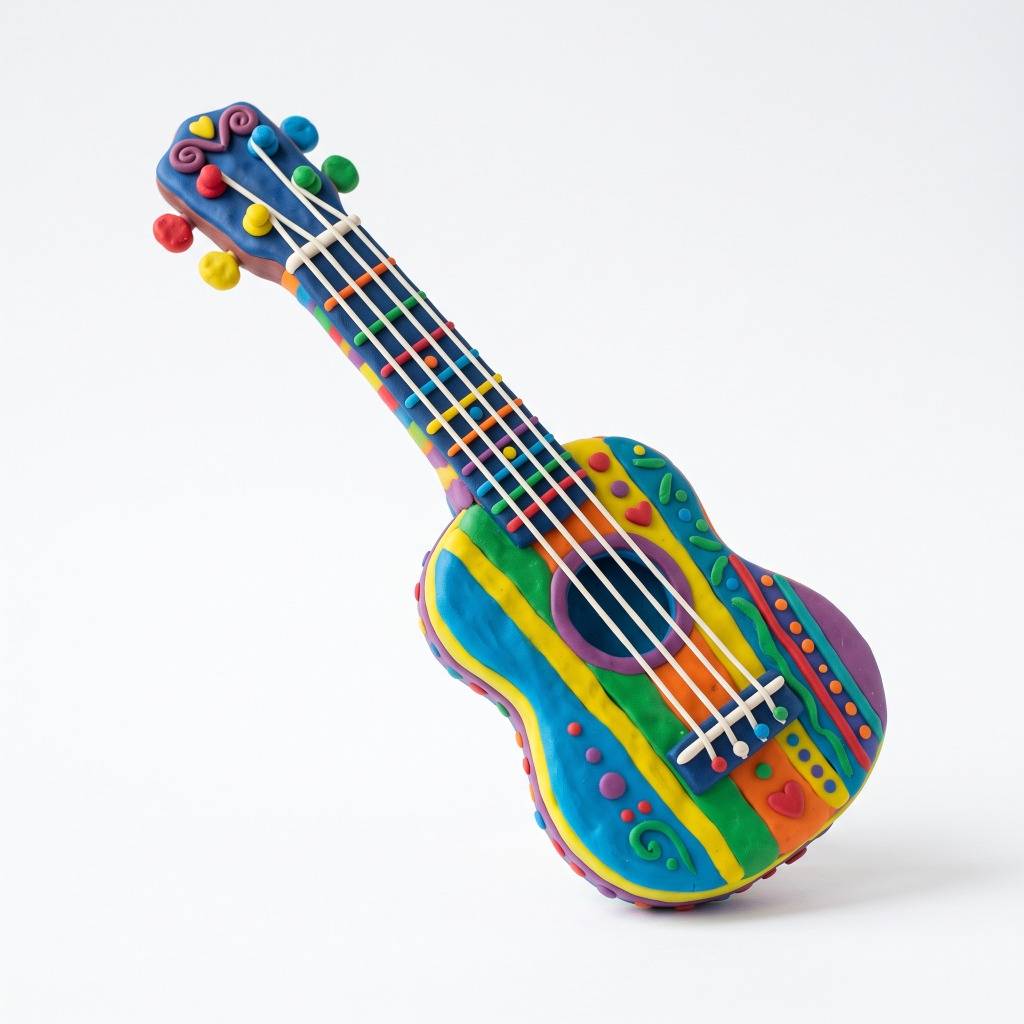
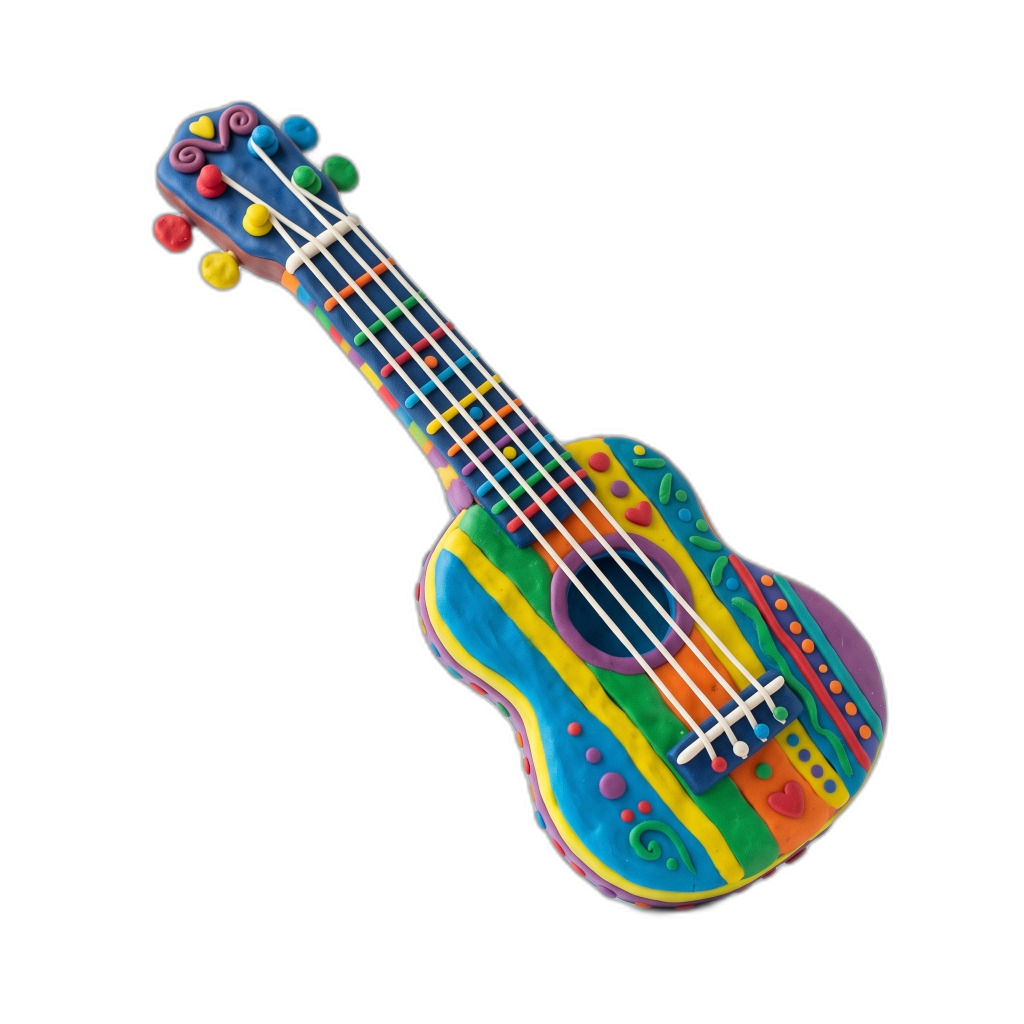
Integrar imagen ukelele con transparencia limpia sin bordes ni sombras

diff --git a/index.html b/index.html
@@ -477,28 +477,51 @@
 
     .hero-visual {
       position: relative;
+      display: flex;
+      justify-content: center;
+      align-items: center;
     }
 
-    .hero-photo-card {
-      padding: 10px;
-      background: #ffffff;
-      border: 1px solid var(--border-subtle);
-      border-radius: var(--radius-xl);
-      box-shadow: var(--shadow-lg);
-      overflow: hidden;
-    }
-
-    .hero-photo-card img {
+    .hero-image-wrap {
+      position: relative;
       width: 100%;
-      height: 380px;
-      object-fit: cover;
-      border-radius: var(--radius-lg);
-      display: block;
-      transition: transform 0.5s ease;
+      display: flex;
+      justify-content: center;
+      align-items: center;
     }
 
-    .hero-photo-card:hover img {
-      transform: scale(1.03);
+    .hero-ukelele-img {
+      position: relative;
+      z-index: 1;
+      width: 100%;
+      max-width: 440px;
+      height: auto;
+      max-height: 480px;
+      object-fit: contain;
+      display: block;
+      margin: 0 auto;
+      border: none;
+      outline: none;
+      box-shadow: none;
+      filter: none;
+      transition: transform 0.4s ease;
+      animation: heroFloat 6s ease-in-out infinite alternate;
+    }
+
+    .hero-ukelele-img:hover {
+      transform: scale(1.04) rotate(-1.5deg);
+    }
+
+    @keyframes heroFloat {
+      0% {
+        transform: translateY(0px) rotate(0deg);
+      }
+      50% {
+        transform: translateY(-8px) rotate(0.8deg);
+      }
+      100% {
+        transform: translateY(3px) rotate(-0.5deg);
+      }
     }
 
     .stat-item h4 {
@@ -508,71 +531,6 @@
       display: flex;
       align-items: center;
       gap: 6px;
-    }
-
-    .hero-card-main {
-      padding: 30px;
-      position: relative;
-      overflow: hidden;
-      border-radius: var(--radius-xl);
-      background: #ffffff;
-      border: 1px solid var(--border-subtle);
-      box-shadow: var(--shadow-lg);
-    }
-
-    .hero-img-wrap {
-      width: 100%;
-      height: 300px;
-      border-radius: var(--radius-md);
-      overflow: hidden;
-      margin-bottom: 18px;
-      position: relative;
-    }
-
-    .hero-img-wrap img {
-      width: 100%;
-      height: 100%;
-      object-fit: cover;
-      transition: transform 0.6s ease;
-    }
-
-    .hero-card-main:hover .hero-img-wrap img {
-      transform: scale(1.05);
-    }
-
-    .floating-pill {
-      position: absolute;
-      background: #ffffff;
-      border: 1px solid var(--border-bright);
-      padding: 10px 16px;
-      border-radius: 9999px;
-      display: flex;
-      align-items: center;
-      gap: 10px;
-      box-shadow: var(--shadow-md);
-      z-index: 2;
-      animation: floatAnim 4s ease-in-out infinite alternate;
-    }
-
-    .floating-pill-1 {
-      bottom: -10px;
-      left: -15px;
-    }
-
-    .floating-pill-2 {
-      top: 15px;
-      right: -15px;
-      animation-delay: 1.5s;
-    }
-
-    @keyframes floatAnim {
-      0% {
-        transform: translateY(0px);
-      }
-
-      100% {
-        transform: translateY(-8px);
-      }
     }
 
     /* Quienes Somos */
@@ -1548,8 +1506,9 @@
         font-size: 2rem;
       }
 
-      .floating-pill {
-        display: none;
+      .hero-ukelele-img {
+        max-width: 360px;
+        max-height: 400px;
       }
     }
 
@@ -1571,6 +1530,11 @@
 
       .hero-section {
         padding: 40px 0 35px;
+      }
+
+      .hero-ukelele-img {
+        max-width: 290px;
+        max-height: 320px;
       }
 
       .section-py {
@@ -1680,8 +1644,8 @@
       </div>
 
       <div class="hero-visual">
-        <div class="hero-photo-card">
-          <img src="img/hero-ukelele.png" alt="Ilustración artística Navarra UkeClub">
+        <div class="hero-image-wrap">
+          <img src="img/hero-ukelele.png" alt="Ukelele Navarra UkeClub" class="hero-ukelele-img">
         </div>
       </div>
     </div>
